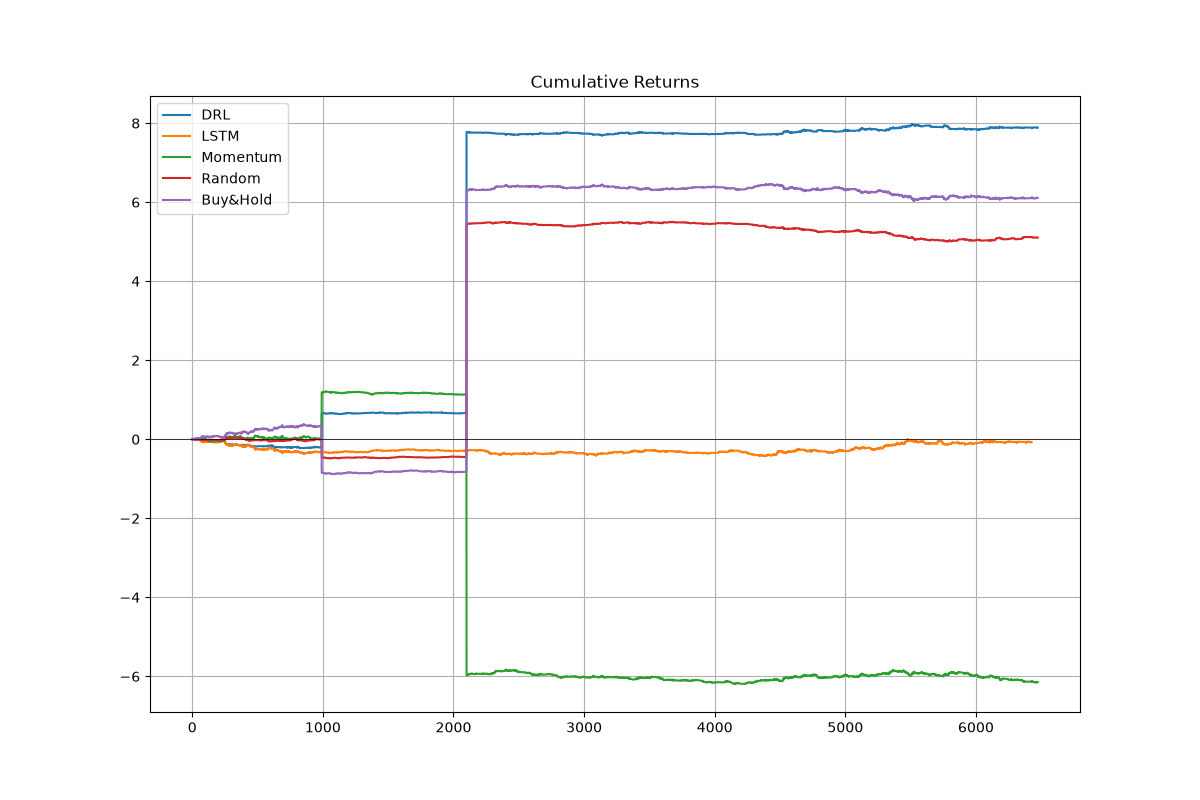
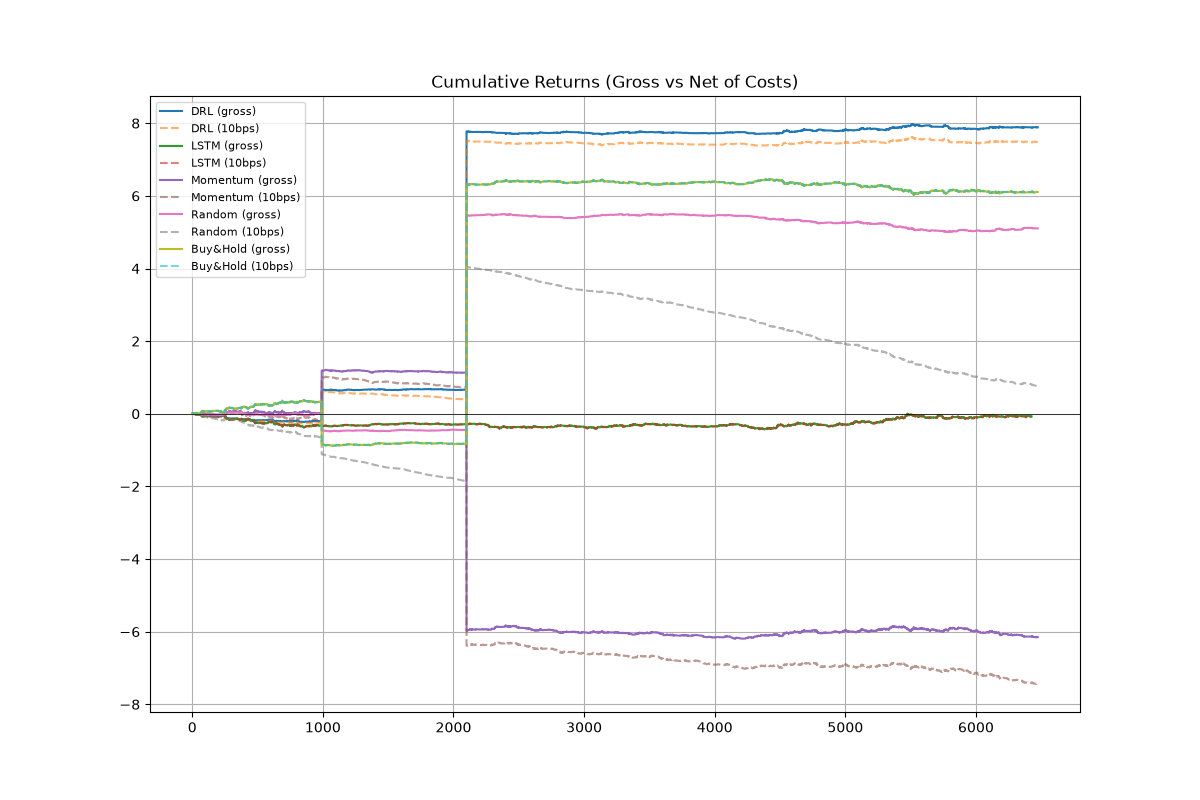
Benchmark v3 correction

diff --git a/src/benchmark/benchmark.py b/src/benchmark/benchmark.py
@@ -19,6 +19,7 @@ from models_predictive.evaluate import LoadModel as LoadLSTM, PrepareTestData as
 from models_predictive.evaluate import max_drawdown, sortino_ratio
 
 FILE_SAVE_IMG = os.path.join(os.path.dirname(os.path.abspath(__file__)), "img")
+FILE_SAVE_TLB = os.path.join(os.path.dirname(os.path.abspath(__file__)), "tlb")
 
 # --- Metrics --- #
 def Sharpe(returns):
@@ -50,10 +51,11 @@ def ComputeNetReturns(returns, actions, cost_rate=0.001):
 # --- Graphs ---#
 def cumulative_return(strategies):
     plt.figure(figsize=(12,8))
-    for name, (gross, _) in strategies.items():
-        plt.plot(np.cumsum(gross), label=name)
-    plt.title("Cumulative Returns")
-    plt.legend()
+    for name, (gross, net) in strategies.items():
+        plt.plot(np.cumsum(gross), label=f"{name} (gross)")
+        plt.plot(np.cumsum(net), label=f"{name} (10bps)", linestyle='--', alpha=0.6)
+    plt.title("Cumulative Returns (Gross vs Net of Costs)")
+    plt.legend(fontsize=8)
     plt.axhline(0, color='black', linewidth=0.5)
     plt.grid()
     plt.savefig(os.path.join(FILE_SAVE_IMG, "cumulative_returns.png"))
@@ -92,23 +94,24 @@ def max_drawdown_graph(strategies, names):
     plt.close()
     print("Graph printed -> 'Max Drawdown'")
 
-def GraphAndMetric():
-    # --- Metrics --- #
-    strategies = {
-        'DRL': (drl_portfolio, drl_net),
-        'LSTM': (lstm_portfolio, lstm_net),
-        'Momentum': (momentum_portfolio, momentum_net),
-        'Random': (random_portfolio, random_net),
-        'Buy&Hold': (drl_market, drl_market),
-    }
+def GraphAndMetric(strategies):
+    lines = []
+    header = f"{'Strategy':<12} {'Return':>8} {'Return(10bps)':>14} {'Sharpe':>8} {'Sortino':>8} {'MaxDD':>8}"
+    lines.append(header)
+    lines.append("-" * 65)
 
-    print(f"\n{'Strategy':<12} {'Return':>8} {'Return(bps)':>12} {'Sharpe':>8} {'Sortino':>8} {'MaxDD':>8}")
-    print("-" * 60)
     for name, (gross, net) in strategies.items():
-        print(f"{name:<12} {CumulativeReturn(gross):>8.4f} {CumulativeReturn(net):>12.4f} "
-              f"{Sharpe(gross):>8.4f} {Sortino(gross):>8.4f} {MaxDrawdown(gross):>8.4f}")
+        line = (f"{name:<12} {CumulativeReturn(gross):>8.4f} {CumulativeReturn(net):>14.4f} "
+                f"{Sharpe(gross):>8.4f} {Sortino(gross):>8.4f} {MaxDrawdown(gross):>8.4f}")
+        lines.append(line)
 
-    names  = list(strategies.keys())
+    output = "\n".join(lines)
+    print(f"\n{output}")
+
+    with open(os.path.join(FILE_SAVE_TLB, "benchmark_results.txt"), "w") as f:
+        f.write(output)
+
+    names = list(strategies.keys())
 
     # --- Graphs --- #
     cumulative_return(strategies)
@@ -185,5 +188,14 @@ if __name__ == "__main__":
     momentum_actions = np.array(momentum_actions)
     momentum_portfolio = momentum_actions * drl_market
     momentum_net = ComputeNetReturns(momentum_portfolio, momentum_actions)
+    
+    # --- Graphs & Metrics --- #
+    strategies = {
+        'DRL': (drl_portfolio, drl_net),
+        'LSTM': (lstm_portfolio, lstm_net),
+        'Momentum': (momentum_portfolio, momentum_net),
+        'Random': (random_portfolio, random_net),
+        'Buy&Hold': (drl_market, drl_market),
+    }
 
-    GraphAndMetric()
+    GraphAndMetric(strategies)
